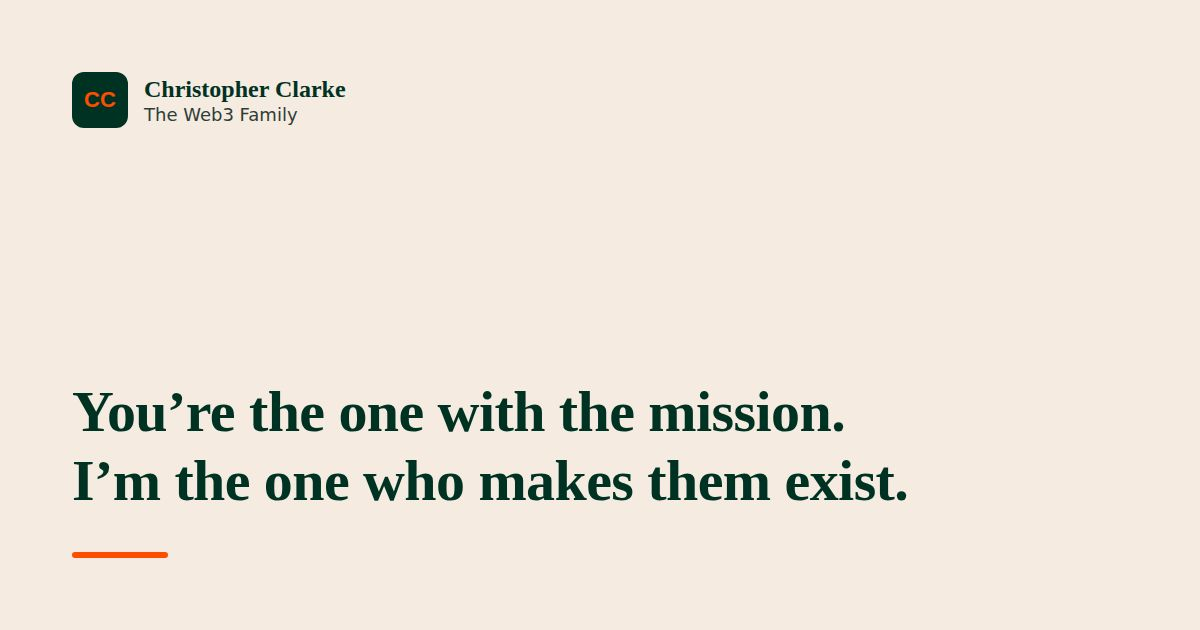
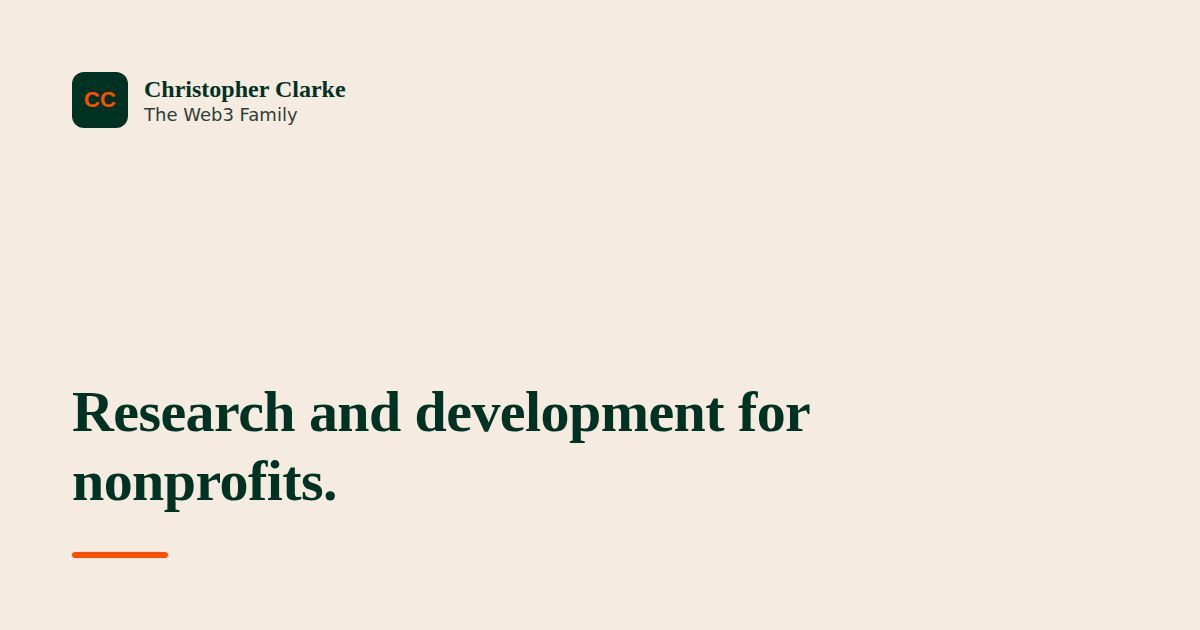
Connect newsletter to Buttondown via a serverless function; address Vercel comments
Newsletter (build instruction: "Buttondown signup through a Vercel
serverless function"):
- api/subscribe.js validates the email, checks a honeypot field, calls
  Buttondown's API with BUTTONDOWN_API_KEY (Vercel environment
  variable, never in this repo), and redirects to /subscribed/ or
  /subscribe-error/. The browser still receives zero JavaScript.
- Form action changed from the old direct-to-Buttondown URL to
  /api/subscribe; added the hidden honeypot field and its .hp CSS.
- New noindex, sitemap-excluded pages: /subscribed/ and
  /subscribe-error/.
- vercel.json sends Cache-Control: no-store on /api/subscribe.

Five Vercel toolbar comments addressed:
- Button text sitewide: "Book a call with me" -> "Schedule a call with
  me" (cta.njk, header nav, case-studies index CTA).
- Homepage subhead: "I just make sure that every Friday you see the
  mission moving forward." -> "Every Friday, an email of what's been
  done, in your team's inbox."
- Homepage headline replaced: the two-line "You're the one with the
  mission..." becomes "Research and development for nonprofits." Also
  re-rendered og-share.jpg, which quotes the headline.
- "Try it out today." prefixed onto every reassurance-style line: the
  hero's .reassure and the case-study CTA's .risk-reversal.
- Client cards moved to the very top of the page body, above the
  problem section too (previously moved to right after the problem
  last round); this specific comment predated that reorder but stayed
[…]

Changed region(s): [[0.0617, 0.6032, 0.7708, 0.8143]]

diff --git a/api/subscribe.js b/api/subscribe.js
@@ -1,0 +1,40 @@
+export default async function handler(req, res) {
+  if (req.method !== "POST") {
+    res.status(405).send("Use the signup form on the site.");
+    return;
+  }
+
+  const email = (req.body && req.body.email ? String(req.body.email) : "").trim();
+  const honeypot = req.body && req.body.company ? String(req.body.company) : "";
+
+  // Bots fill the hidden field; send them to the thank-you page quietly.
+  if (honeypot) {
+    res.redirect(303, "/subscribed/");
+    return;
+  }
+
+  if (!/^[^\s@]+@[^\s@]+\.[^\s@]+$/.test(email)) {
+    res.redirect(303, "/subscribe-error/");
+    return;
+  }
+
+  try {
+    const response = await fetch("https://api.buttondown.com/v1/subscribers", {
+      method: "POST",
+      headers: {
+        Authorization: `Token ${process.env.BUTTONDOWN_API_KEY}`,
+        "Content-Type": "application/json",
+      },
+      body: JSON.stringify({ email_address: email }),
+    });
+
+    // 201 = created. 400 with an "already subscribed" style message also counts as a friendly outcome.
+    if (response.ok || response.status === 400 || response.status === 409) {
+      res.redirect(303, "/subscribed/");
+      return;
+    }
+    res.redirect(303, "/subscribe-error/");
+  } catch (err) {
+    res.redirect(303, "/subscribe-error/");
+  }
+}

diff --git a/src/styles.css b/src/styles.css
@@ -265,9 +265,14 @@ footer p:last-child{margin-bottom:0}
   min-height:56px;padding:12px 28px;font:inherit;font-size:18px;font-weight:700;
   background:var(--cream);color:var(--forest);border:2px solid var(--forest);border-radius:3px;
   cursor:pointer;flex:0 0 auto;
+  display:inline-flex;align-items:center;justify-content:center;text-decoration:none;
 }
 .newsletter-btn:hover{background:var(--cream-deep)}
 .newsletter-privacy{margin-top:var(--space-4)}
+/* honeypot: visually and positionally hidden from real visitors, who
+   never see or fill this field; a bot that fills every field does,
+   and gets quietly redirected instead of erroring (api/subscribe.js) */
+.hp{position:absolute;left:-9999px;height:0;overflow:hidden}
 
 .footer-name{font-family:'Lora',serif;font-weight:700;font-size:22px;color:var(--cream)}
 .footer-line{font-size:18px;color:#cbbfb3}

diff --git a/CLAUDE.md b/CLAUDE.md
@@ -96,20 +96,20 @@ The order is the argument. Do not reorder blocks without asking.
 
 1. Header. Logo, plus a nav, added on Christopher's direct request (previously logo-only, "nothing to click but the phone number and the one call to action"; that blanket rule is retired, but adding new items to the menu or new nav elsewhere still needs a separate explicit conversation first, same as any other structural change). No social links. The logo links to `/` (a no-op there, a way home from every other page); on subpages (case studies, articles) the header logo and the breadcrumb's first crumb both link to `/`. The nav holds four links, Christopher's own list: case studies, articles, contact, and book a meeting (the popup), the last one styled as a real button (`.nav-cta`) rather than a plain link, on direct request. Below 760px it's a `<details>`/`<summary>` hamburger disclosure, the same zero-JS pattern the case study pages used for their weekly log; at 760px and up it's a second, plain `<nav class="nav-inline">` carrying the same four links, always visible, no toggle, added on direct request ("can we have a better menu on desktop?"). Both markups exist in `base.njk` at once, one hidden by CSS depending on viewport width, rather than trying to force the closed `<details>`'s content to stay visible above the breakpoint: that was tried first and silently broke, since Chromium keeps an internal collapsed-layout state for a closed `<details>` regardless of a CSS `display` override, and the nav rendered at zero width and overflowed off-screen. Neither nav adds client-side JavaScript.
 2. Portrait, name, and city. Before any claim. For this reader a real photo of a real person is the largest trust signal on the page.
-3. Hero. A two-line headline, one line naming who he works with and what happens every Friday, the booking button as the one dominant action, the phone number beside it as a small secondary link, and a one-line cadence/cancellation note. The price and the hours-per-week figure used to sit in the hero too; both were removed from here on direct request (a September 2026 build instruction) since naming the hours invites the reader to price the time instead of the result, and the price now appears lower on the page (see item 8 below).
-4. The problem, in his words. He will not believe you can help until he believes you understand. Only three short lines, on purpose: just enough to land the "that is me" recognition before the client cards right after it.
-5. Clients like you. Three real, named clients, linking to their own page under `/case-studies/`. See section 8. Headed "Clients like you" on the homepage specifically (through "The work so far" then a plain "Clients" on the way there, each a direct request); the case-studies index page at `/case-studies/` keeps "The work so far" as its own heading, unchanged. No separate intro line under the heading anymore ("People like you." was added then removed in the same round, on direct request, once the heading itself absorbed the sentiment). **Moved up from after "What Christopher does" to right after the problem**, on a September 2026 build instruction ("Homepage order and iPhone"): the instruction's own analytics showed 49% average scroll depth and only 4 of 52 visitors reaching the case studies in their old position, so they moved ahead of "what I do" instead, on the reasoning that the card headlines carry their own explanation and social proof works best within the first scroll depth, right after the "that is me" recognition the problem section creates. The sections keep their own classes as moved (the problem section and this one are now two `.band`-styled sections back to back, losing the plain-cream break that used to separate the old "what I do" section from the cards below it); that's a byproduct of the reorder, not fixed, since rebalancing the band/plain rhythm sitewide wasn't asked for.
+3. Hero. A one-line headline, one line naming who he works with and what happens every Friday, the booking button as the one dominant action, the phone number beside it as a small secondary link, and a one-line cadence/cancellation note. The price and the hours-per-week figure used to sit in the hero too; both were removed from here on direct request (a September 2026 build instruction) since naming the hours invites the reader to price the time instead of the result, and the price now appears lower on the page (see item 8 below). The subhead changed on direct request, via a Vercel toolbar comment, from "I just make sure that every Friday you see the mission moving forward." to "Every Friday, an email of what's been done, in your team's inbox." The cadence/cancellation note picked up a new opening sentence the same way, via a separate toolbar comment asking to add "Try it out today" to every reassurance-style line sitewide: it now reads "Try it out today. Month to month, Cancel anytime." The case-study pages' `.risk-reversal` line (section 10) got the same treatment, prefixed the same way.
+4. Clients like you. Three real, named clients, linking to their own page under `/case-studies/`. See section 8. Headed "Clients like you" on the homepage specifically (through "The work so far" then a plain "Clients" on the way there, each a direct request); the case-studies index page at `/case-studies/` keeps "The work so far" as its own heading, unchanged. No separate intro line under the heading anymore ("People like you." was added then removed in the same round, on direct request, once the heading itself absorbed the sentiment). **Now the first thing after the hero**, right above the problem section. This moved twice in two rounds: a September 2026 build instruction ("Homepage order and iPhone") first moved it from after "What Christopher does" to right after the problem, citing its own analytics (49% average scroll depth, only 4 of 52 visitors reaching the case studies in their old position) and the reasoning that the problem section's "that is me" recognition should land right before the cards, not above them. A Vercel toolbar comment on this same heading, predating that build instruction by timestamp but left unresolved through it, asked to "hoist this up above the 'your problem' section"; confirmed directly that the cards should go all the way to the top, above the problem too, superseding the build instruction's placement. The sections keep their own classes as moved (the problem section and this one are both `.band`-styled, so they sit back to back now, losing the plain-cream break that used to separate the old "what I do" section from the cards below it); that's a byproduct of the reorder, not fixed, since rebalancing the band/plain rhythm sitewide wasn't asked for.
+5. The problem, in his words. He will not believe you can help until he believes you understand. Only three short lines, on purpose.
 6. What Christopher does. In his own voice, not a bulleted list. Four bold lead-ins now, not three: "I listen to you talk," "I work behind the scenes," "I deliver the work every Friday," and "Your organization keeps everything" (a history of emails and a dedicated Google Drive). That fourth one used to be its own standalone section, first "What changes" then "What is delivered"; a September 2026 build instruction ("Spacing, SEO, and measurement") had it merged into this section instead, since a one-sentence section carrying its own heading, rule, and full section padding was itself a chunk of the large vertical voids that same instruction was fixing. `.steps`/`.step-num` (the old numbered "How it works" this section replaced a round earlier) were fully removed from `src/styles.css`, not just left unused, since nothing else on the site used them.
 7. Have Questions? The FAQ, which handles his last objections. Heading changed from "Straight answers" on direct request.
 8. The price, plainly. Still stated in full, never hidden or vague, just positioned later than before: after the case studies and FAQ have made the case, right before the final booking action, instead of near the top. Moved down from its original position higher on the page (right after "What Christopher does") on direct request, so the reader has the value in hand before the number arrives. Its supporting copy was also rewritten on direct request, from a two-paragraph explanation of the cadence and what's covered, to one line naming what's actually delivered: "For your own dedicated slot on my calendar, the Friday emails, and your own personal Google Drive with everything built so far." (adapted from the requested "with all that we've built," per the first-person-singular rule).
 9. Last action. Booking widget and phone number.
 10. Footer. A newsletter signup (see below) sits above everything else in the footer, added on a September 2026 build instruction ("Buttondown email signup"). Below that: name, business name, city, phone, and email, plus a "Clients" line linking out to the three case-study clients' own live sites (loveaid.foundation, askgpop.online, rapfrogs.online), added on direct request via a Vercel toolbar comment ("Them 3 links into the footer too"), and a "Privacy" link to `/privacy/`, added alongside Google Analytics (see section 9). No social icons, and no other links beyond those.
 
-**Newsletter signup.** One instance, in the footer, on every page, per that same build instruction. Deliberately not on the homepage body: the homepage's one job is booking calls, and a second, smaller ask would compete with the orange CTA and pull people toward the easier action. A plain HTML form (`method="post"`, `target="_blank"`) posts straight to Buttondown, so it needs no JavaScript; the visible `<label for="bd-email">` matters for the same reason the contact form has one, since a placeholder alone disappears the moment someone starts typing. Styled with the same cream-fill, forest-border field convention as `.contact-form input` (see section 9), not the instruction's slightly different palette or radius, for the same "reuse existing patterns" reason as the brand-token note in section 6. The button is cream with a forest border and forest text, never orange: orange stays reserved for the booking CTA alone, so a second orange button in the footer wouldn't read as a second "the" action. The instruction's given blurb (16px) and label (14px) sizes were both below the site's 18px accessibility floor (section 7); both ship at 18px instead, matching `.footer-line`. **The form's `action` still reads `YOURUSERNAME`**: that has to come from Christopher's own Buttondown account, nobody else can create it, same as the Splitform and GoatCounter placeholders in section 8. Unlike those two, this one is visually live in the footer right now rather than commented out, since the instruction wanted the whole layout shipped immediately; don't invent a real username to fill it in, and don't treat the placeholder as done until it's swapped for the real one. Once a future `/guides/` collection exists, a second instance is planned at the end of each guide, per the same instruction; that's not built yet, since no guide exists to attach it to.
+**Newsletter signup.** One instance, in the footer, on every page, per that same build instruction. Deliberately not on the homepage body: the homepage's one job is booking calls, and a second, smaller ask would compete with the orange CTA and pull people toward the easier action. A plain HTML form (`method="post"`) posts to `/api/subscribe`, a Vercel serverless function, so the browser still runs no JavaScript; the visible `<label for="bd-email">` matters for the same reason the contact form has one, since a placeholder alone disappears the moment someone starts typing. Styled with the same cream-fill, forest-border field convention as `.contact-form input` (see section 9), not the instruction's slightly different palette or radius, for the same "reuse existing patterns" reason as the brand-token note in section 6. The button is cream with a forest border and forest text, never orange: orange stays reserved for the booking CTA alone, so a second orange button in the footer wouldn't read as a second "the" action. The instruction's given blurb (16px) and label (14px) sizes were both below the site's 18px accessibility floor (section 7); both ship at 18px instead, matching `.footer-line`. **The form originally posted straight to Buttondown with a `YOURUSERNAME` placeholder in the URL**; a follow-up build instruction ("Buttondown signup through a Vercel serverless function") replaced that with the `/api/subscribe` function described in section 9, specifically so the real Buttondown API key stays server-side instead of ever appearing in front-end markup. A hidden honeypot field (`name="company"`) rides along in the same form to filter bots; see section 9 for how it's hidden and what happens when it's filled. Once a future `/guides/` collection exists, a second instance is planned at the end of each guide, per the original instruction; that's not built yet, since no guide exists to attach it to.
 
-**Locked copy.** Do not change the headline, the price block, the button text, or the footer without an explicit request from Christopher.
+**Locked copy.** Do not change the headline, the price block, the button text, or the footer without an explicit request from Christopher. **The headline changed on a direct request** via a Vercel toolbar comment on the old H1, from the two-line "You're the one with the mission. I'm the one who makes them exist." to a single line, "Research and development for nonprofits." The old line doesn't come back without a fresh, explicit request; `og-share.jpg` (section 9) was re-rendered to match, since it quotes the homepage headline verbatim.
 
-**Naming consistency.** The offer is **a 15 minute call**, still the name for the Calendly event itself and in conversation, even though the on-page button text has since changed (see below). The earlier "free briefing" name, and "Digital Intelligence Briefing" before that, are both retired and do not come back. Every booking button on the site reads "Book a call with me," changed from "Book a free strategy call" (itself changed from "Book my meeting with you.," itself changed from the original "Book my 15 minute call") on Christopher's direct request via a Vercel toolbar comment on the header nav CTA; it's pulled from one shared template (`src/_includes/cta.njk`) so it only needs to change in one place, plus the header nav CTA and the case-studies index page's own hand-written CTA, which don't route through that macro. The phone number, being a secondary link rather than a button, stays third person: "or call/text (310) 703-6003." The shared macro shows that line under the button by default; the homepage's final booking section passes `showPhone=false` to omit it there specifically, on direct request, since the number already appears earlier on that same page. An "or email me directly" mailto line, added on a September 2026 build instruction, sits under every button too, and unlike the phone line it always shows regardless of `showPhone`: the email address isn't shown anywhere earlier on the homepage by the time the reader reaches that section, so there's no redundancy to avoid there the way there is with the phone number.
+**Naming consistency.** The offer is **a 15 minute call**, still the name for the Calendly event itself and in conversation, even though the on-page button text has since changed (see below). The earlier "free briefing" name, and "Digital Intelligence Briefing" before that, are both retired and do not come back. Every booking button on the site reads "Schedule a call with me," changed from "Book a call with me" (itself changed from "Book a free strategy call," itself changed from "Book my meeting with you.," itself changed from the original "Book my 15 minute call") on Christopher's direct request via a Vercel toolbar comment on the hero CTA; it's pulled from one shared template (`src/_includes/cta.njk`) so it only needs to change in one place, plus the header nav CTA and the case-studies index page's own hand-written CTA, which don't route through that macro. The phone number, being a secondary link rather than a button, stays third person: "or call/text (310) 703-6003." The shared macro shows that line under the button by default; the homepage's final booking section passes `showPhone=false` to omit it there specifically, on direct request, since the number already appears earlier on that same page. An "or email me directly" mailto line, added on a September 2026 build instruction, sits under every button too, and unlike the phone line it always shows regardless of `showPhone`: the email address isn't shown anywhere earlier on the homepage by the time the reader reaches that section, so there's no redundancy to avoid there the way there is with the phone number.
 
 ---
 
@@ -183,7 +183,7 @@ This replaced an earlier anonymous, single-page version at `/proof/` (three card
 
 **No About page exists.** The same build instruction asked for one to open with a specific entity-disambiguating sentence, but building a whole new page (its full content beyond that one sentence, whether it joins the nav, where it links from) is a bigger, more speculative call than a single copy edit, so it wasn't built. Don't create one without Christopher confirming he wants it and what else besides that opening sentence should be on it.
 
-**The footer's newsletter signup form is scaffolded but not functional**, live in the footer on every page (see section 5) but posting to `https://buttondown.com/api/emails/embed-subscribe/YOURUSERNAME`. The real username has to come from Christopher's own free Buttondown account, which nobody else can create for him. Don't invent one to fill this in. Once he supplies the real one, swap it into the `action` attribute in `base.njk`; nothing else about the form needs to change.
+**The footer's newsletter signup form is code-complete but still needs one real secret added outside this repo.** It posts to `/api/subscribe` (`api/subscribe.js`, see section 9), which reads the real Buttondown API key from the `BUTTONDOWN_API_KEY` Vercel environment variable rather than from anything in `src/`. Nobody but Christopher can create that key (Buttondown, Settings, API) or add it to the Vercel dashboard (Project Settings → Environment Variables, applied to Production and Preview, then redeploy); don't invent one. Until that variable exists in Vercel, every real submission will fail over to `/subscribe-error/` even though the code itself is finished and correct. Test with a real email after it's added, per Christopher's own checklist in the build instruction that added this function.
 
 ---
 
@@ -192,13 +192,14 @@ This replaced an earlier anonymous, single-page version at `/proof/` (three card
 - **Built with Eleventy**, deliberately, so a design-system-wide change (a color, a spacing value, the type scale) is one edit instead of one edit per page. That was the entire reason this site moved off a single static file: it started growing past one page. Do not reach for anything heavier (Astro, Next.js, a component framework) without asking. This project already tried Astro twice before landing here.
 - `src/_includes/base.njk` is the shared layout: the `<head>`, the header, and the footer. Every page uses it. Do not duplicate the header or footer markup into a page file.
 - `src/styles.css` is the one stylesheet every page links. A style that only one page needs still belongs in this file, scoped with a class; do not add a second stylesheet or inline a `<style>` block into a page.
-- Ships zero client-side JavaScript beyond the booking embed, Microsoft Clarity, and Google Analytics (analytics). No animation libraries, sliders, or other analytics tools beyond those two. Eleventy's job is finished at build time; nothing it does should add a runtime script beyond those three. The homepage's old inline Calendly iframe is gone (removed on direct request); every "Book a call with me" button on the site, the homepage included, now opens Calendly's official popup widget instead (their `widget.css`/`widget.js`, plus an `onclick="Calendly.initPopupWidget(...)"` on the CTA link, with a plain link to the Calendly page as the href fallback if JavaScript is off). That's still the same one third-party booking product, not a second dependency. The popup assets load in `<head>` on every page now, not gated behind a front-matter flag, since the footer's own booking button needs them everywhere the footer appears. The header's nav (hamburger below 760px, plain inline nav above it, see section 5) is CSS-only, so it adds no JavaScript either. The contact page's stand-in form (section 8) submits via a plain `mailto:` action, also no JavaScript. The footer's newsletter signup form (section 5) is the same story: a plain HTML `method="post"` to Buttondown, no JavaScript, `target="_blank"` so the confirmation page opens in a new tab instead of navigating away from whatever page the visitor was reading.
+- Ships zero client-side JavaScript beyond the booking embed, Microsoft Clarity, and Google Analytics (analytics). No animation libraries, sliders, or other analytics tools beyond those two. Eleventy's job is finished at build time; nothing it does should add a runtime script beyond those three. The homepage's old inline Calendly iframe is gone (removed on direct request); every "Schedule a call with me" button on the site, the homepage included, now opens Calendly's official popup widget instead (their `widget.css`/`widget.js`, plus an `onclick="Calendly.initPopupWidget(...)"` on the CTA link, with a plain link to the Calendly page as the href fallback if JavaScript is off). That's still the same one third-party booking product, not a second dependency. The popup assets load in `<head>` on every page now, not gated behind a front-matter flag, since the footer's own booking button needs them everywhere the footer appears. The header's nav (hamburger below 760px, plain inline nav above it, see section 5) is CSS-only, so it adds no JavaScript either. The contact page's stand-in form (section 8) submits via a plain `mailto:` action, also no JavaScript. The footer's newsletter signup form (section 5) is the same story from the browser's side: a plain HTML `method="post"`, no JavaScript. It posts to `/api/subscribe`, a Vercel serverless function (see below) rather than straight to Buttondown, so the real API key never has to live in a front-end file; the function itself runs server-side, which the zero-JS rule has never governed, since that rule is about what ships to the visitor's browser.
 - Microsoft Clarity and Google Analytics (`gtag.js`, measurement ID `G-X7WWKF2SFX`) are both loaded on every page, by explicit request, even though each sets its own cookies (Clarity for session replay and heatmaps, GA4 for aggregate visit stats). That's a deliberate exception to the site's general no-cookies posture, made knowingly. Rather than a consent banner, the site links to a short `/privacy/` page (`src/privacy.njk`) from the footer, describing what each tool collects and why. The banner-vs-privacy-page call was made after weighing CCPA/GDPR exposure for a solo operator with primarily LA-based nonprofit clients (low risk at this scale, though Google's own EU User Consent Policy is technically a contractual condition of using their tag regardless of site size). Don't add a banner speculatively, and don't treat this as license to add other tracking without the same explicit ask; if a future tracker is added, revisit whether the privacy-page approach still holds.
 - Beyond Clarity's and Google Analytics' cookies, no localStorage, sessionStorage, or other cookies.
-- External dependencies are Google Fonts, the booking embed, Microsoft Clarity, and Google Analytics. That is the whole list of things a visitor's browser talks to. `@11ty/eleventy` is a dev-time dependency only; it never ships to the browser. Splitform, GoatCounter, and Buttondown will each become a dependency once their real credentials are wired in (see section 8 and, for the newsletter form, section 5); none is live yet.
+- External dependencies are Google Fonts, the booking embed, Microsoft Clarity, and Google Analytics. That is the whole list of things a visitor's browser talks to. `@11ty/eleventy` is a dev-time dependency only; it never ships to the browser. Buttondown is now wired in server-side via `api/subscribe.js` (see below), pending only the real `BUTTONDOWN_API_KEY` in Vercel's dashboard (see section 8); the visitor's browser itself never talks to Buttondown directly. Splitform and GoatCounter will each become a dependency once their real credentials are wired in (see section 8); neither is live yet.
 - **Organization, Person, and BreadcrumbList JSON-LD**, added on a September 2026 build instruction. The Organization and Person blocks live in `base.njk`'s `<head>`, gated to the homepage only (`{% if page.url == "/" %}`); each case study page carries its own BreadcrumbList block near its breadcrumb, with the client's name in position 3. These are `<script type="application/ld+json">` blocks: inert structured data parsed by crawlers, not executable script, so they don't touch the zero-JS rule despite the `<script>` tag. The Organization block also carries `image` (the same real portrait, `christopher.jpg`) and `priceRange` (`"$500 - $3,000"`), added on a pasted schema snippet from a September 2026 session. That snippet's `telephone` was wrong (`+1-310-800-5000`, not the real `703-6003` used everywhere else on the site) and wasn't used; Christopher confirmed the real number stays. **The `priceRange` is a known mismatch with the visible page right now**: section 1 and the price section (section 5, item 8) still describe one flat $3,000/month rate, no range. Christopher confirmed the range itself is real and the schema update is intentional, but the on-page copy hasn't caught up yet. Don't "fix" this by reverting `priceRange` or by rewriting the visible price copy to match on your own; both need a fresh, explicit request when he's ready to update the page itself.
 - **Sitemap, robots.txt, canonical, and OpenGraph**, added on a September 2026 build instruction ("Sitemap, meta tags, card links, touch targets"). `src/sitemap.njk` renders at `/sitemap.xml` from `collections.all`; `src/robots.txt` (passthrough-copied) points at it. Every page's `<head>` in `base.njk` carries a canonical link and OG/Twitter-card tags built from that page's own `title` and `description` front matter, which every page already had. `og:image` points at `src/og-share.jpg`, a static 1200x630 JPEG checked into the repo (passthrough-copied, not generated at build time): a typographic card built from the homepage headline, the header's own "CC" wordmark, and an orange rule, styled with the site's real fonts and colors, rendered with a one-off headless-browser screenshot rather than photography or AI image generation, consistent with the no-stock-photography rule in section 3. If the headline or wordmark ever changes, re-render this file the same way rather than hand-editing a JPEG.
-- Build: `npm run build` outputs static files to `_site/`. `npm run dev` serves it locally with live reload. There is no other build step and no server at runtime; Vercel serves what Eleventy generates, nothing more.
+- Build: `npm run build` outputs static files to `_site/`. `npm run dev` serves it locally with live reload. There is no other build step; Vercel serves what Eleventy generates, plus the one serverless function described below. Until the newsletter signup, this was also true at runtime ("no server, nothing but static files"); `api/subscribe.js` is the one exception, added on direct request specifically to keep a real API key out of the repo and out of every front-end file. Don't reach for a second one without asking; the site's default is still static-first.
+- **The newsletter signup posts to a Vercel serverless function**, `api/subscribe.js` at the repo root (Vercel serves `api/` automatically alongside the Eleventy output in `_site/`), added on a September 2026 build instruction ("Buttondown signup through a Vercel serverless function") that replaced the newsletter form's original direct-to-Buttondown `action` (see section 5). The browser still receives zero JavaScript: the form is a plain HTML POST, and the function is server-side Node that validates the email with a regex, calls Buttondown's API (`POST https://api.buttondown.com/v1/subscribers`, field name `email_address`, bearer-style `Authorization: Token <key>` header) with the real API key read from the `BUTTONDOWN_API_KEY` environment variable, and redirects (303) to `/subscribed/` or `/subscribe-error/`. The field name wasn't verified live against Buttondown's docs (`docs.buttondown.com` isn't reachable from this environment's network policy); it matches the build instruction's own code and this assistant's best knowledge of the API, but treat Christopher's own test signup, per his checklist in that build instruction, as the real verification, not this note. A hidden `company` field is a honeypot (`.hp` in `src/styles.css`: positioned off-screen, zero height, `tabindex="-1"`, so a real visitor never sees or tabs into it); a bot that fills every field gets quietly redirected to `/subscribed/` instead of an error, so it doesn't learn to retry. `BUTTONDOWN_API_KEY` lives only in the Vercel dashboard (Project Settings → Environment Variables, applied to Production and Preview); it is never in this repo. The Buttondown username is `theweb3family`, used for reference, not in the subscribe flow itself (the API key authenticates the account, not a URL path). `/subscribed/` and `/subscribe-error/` (`src/subscribed.njk`, `src/subscribe-error.njk`) both carry `noindex` via a `noindex: true` front-matter flag (`{% if noindex %}<meta name="robots" content="noindex">{% endif %}` in `base.njk`) and `eleventyExcludeFromCollections: true`, so neither appears in `/sitemap.xml`. `vercel.json` sends `Cache-Control: no-store` on `/api/subscribe` so browsers never cache the function response.
 
 ---
 
@@ -209,7 +210,7 @@ This replaced an earlier anonymous, single-page version at `/proof/` (three card
 - Explain what changed and why in plain language. Christopher reviews on a phone.
 - When adding a section to a page, match the existing rhythm: a `<section>` with a top border, a `.wrap` container, an `h2`, and either `.split` prose or a `.cards` grid.
 - **Adding a new page:** create a file under `src/` with `layout: base.njk` in its front matter, a `title`, and a `description`. The header (including the hamburger menu), and footer come along automatically from `base.njk`. Write its sections using the same rhythm as `src/index.njk`. Do not add the new page into the hamburger menu, or any navigation link for it elsewhere, without an explicit conversation first: the menu's four links (case studies, articles, contact, book a meeting) were Christopher's own explicit list, not a general "add every page" rule.
-- **Adding an article:** copy `article-template.md` (repo root) into `src/articles/`, fill in the front matter, write the body in Markdown, done. It appears on `/articles/` and gets its own page automatically, no template edits needed. Every article carries the same header, footer, and a "Book a call with me" button at the end, via the shared `cta.njk` macro. `src/_includes/article.njk` used to have its own hand-written CTA that still read "Book my 15 minute call," missed during the earlier button-text rounds since no article had been published yet to surface it; fixed to route through `{% from "cta.njk" import button %}` like every other page, so a future button-text change only needs the one macro edit it was always supposed to need.
+- **Adding an article:** copy `article-template.md` (repo root) into `src/articles/`, fill in the front matter, write the body in Markdown, done. It appears on `/articles/` and gets its own page automatically, no template edits needed. Every article carries the same header, footer, and a "Schedule a call with me" button at the end, via the shared `cta.njk` macro. `src/_includes/article.njk` used to have its own hand-written CTA that still read "Book my 15 minute call," missed during the earlier button-text rounds since no article had been published yet to surface it; fixed to route through `{% from "cta.njk" import button %}` like every other page, so a future button-text change only needs the one macro edit it was always supposed to need.
 - **`/articles/` is now reachable from the hamburger menu** on every page, added along with the rest of the menu on Christopher's direct request. It previously had no link pointing at it anywhere, on purpose; that's no longer the case.
 - **The homepage FAQ was rewritten on a September 2026 build instruction**: all four questions and answers changed, and the section heading became "Have Questions?" (from "Straight answers"). Two of the requested answers used "we" ("You own everything we create," "You still keep everything we created"); both were adapted at the time to hold the first-person-singular rule in section 4, shipping as "You own everything I make," "You still keep everything," since Christopher speaks as one person on this site. Christopher later flagged that rule as unhelpful via a Vercel toolbar comment, so the "Web3" FAQ answer's line now reads "You own everything we make" again, on his direct request; the "You still keep everything" line hasn't had a fresh request to match, so it stays as is. See section 4 for the updated, non-absolute version of the rule.
 - **Case studies** live at `src/case-studies/`: `index.njk` (three short cards linking out, page heading "The work so far") plus one full page per client (`love-aid-foundation.njk`, `ask-g-pop.njk`, `rap-frogs.njk`), not a collection like articles. Each full page: a breadcrumb (`Home → Case studies → [org]`), an `.eyebrow-person` (the person's name on one line, the organization on the next, differentiated by size, weight, and style rather than joined with a middle dot; see below), the serif headline, a `.case-facts` strip (client type only, see below), and a two-column `.split.split-swapped`: "Here is what landed" on the wide left side, "Sound familiar?" questions on the narrow right side. Immediately after the split (full width, spanning both columns): the page's one CTA, then, when a real quote exists, the client's quotes with a `<cite>` attribution line under each, then a "what this proves" block, a weekly delivery log shown as a horizontal timeline (see below), a short first-person note from Christopher next to the reused homepage portrait, a "Want to see more case studies?" heading, and the closing list of links to the other case studies. The homepage's own "Clients like you" section links to each page by name, and reuses `.eyebrow-person`, using the same card content and structure as the case-studies index cards: the two briefly diverged (the homepage got new one-line headlines and a plain-text domain first, while the index page kept its old numeric stat and outcome-style copy) and were then brought back into parity on a direct follow-up request ("needs to match what we'll be putting on the homepage"). Both pages' cards now share:
@@ -222,7 +223,7 @@ This replaced an earlier anonymous, single-page version at `/proof/` (three card
   - **No visible client start dates anywhere on the site**, removed on a September 2026 build instruction: the old "Client since [Month Year]" fact-strip column (with its "N months and running" sub-line), and the "Client since [date]" line on the case-studies index cards and the homepage teaser cards, are all gone. `.case-facts` now holds one column, client type, on all three detail pages. The week count still lives inside the weekly log timeline's own circled numbers (see below); that's momentum, not a start date, and it stays. Don't reintroduce a start date anywhere without a fresh, explicit request; the `.case-fact-sub` class this used was removed from `src/styles.css`, not just left unused.
   - **The two-column split runs "Here is what landed" on the left (wide) and "Sound familiar?" on the right (narrow)** on all three pages, per Christopher's direct feedback: `.split.split-swapped` reverses which DOM child gets the 1.5fr/1fr width so the checklist keeps the wider column even though it's now first. Elsewhere on the site (homepage sections, articles) the label/eyebrow column stays narrow-left, body-wide-right as before; the swap is scoped to case studies only via that modifier class, not a global change.
   - **One CTA per page, not three.** These pages went from three CTAs down to one, across two rounds of direct feedback: first the CTA between "What this proves" and the weekly log was cut, then the closing CTA near the bottom was cut too. What's left sits right after the two-column split, spanning full width ("footer-wide," Christopher's own word for it) rather than nested inside the narrow "Sound familiar?" column, where it briefly lived. Don't add a CTA elsewhere on these pages without a fresh, explicit request; the trend across this feedback was fewer, not more.
-  - **The CTA carries three lines**: the "Book a call with me" button, `or call/text (310) 703-6003` underneath it (third person, per the phone-number convention above), and the risk-reversal line `Month to month. Everything built is yours.` (a shortened version Christopher preferred over the original "Month to month. One email ends it. Everything built stays yours.", after seeing both live; the price section's own paragraph on the homepage is untouched). Built from the shared `src/_includes/cta.njk` macro (`{{ button("content-cta", true) }}`), which also supplies `.call-alt` and, via the `riskReversal` argument, `.risk-reversal`.
+  - **The CTA carries three lines**: the "Schedule a call with me" button, `or call/text (310) 703-6003` underneath it (third person, per the phone-number convention above), and the risk-reversal line `Try it out today. Month to month. Everything built is yours.` (the `Month to month. Everything built is yours.` part is a shortened version Christopher preferred over the original "Month to month. One email ends it. Everything built stays yours.", after seeing both live; `Try it out today.` was prefixed on a later direct request, see section 5; the price section's own paragraph on the homepage is untouched). Built from the shared `src/_includes/cta.njk` macro (`{{ button("content-cta", true) }}`), which also supplies `.call-alt` and, via the `riskReversal` argument, `.risk-reversal`.
   - **The CTA button opens Calendly's popup widget** instead of linking to the homepage's `/#booking` section, per direct request. Calendly's popup assets now load in `<head>` on every page (see section 9; not gated behind a `calendlyPopup` front matter flag anymore, since the footer's own booking button needs them everywhere the footer appears); the button itself is `<a href="https://calendly.com/aweb3dad/15-minute-greeting" onclick="Calendly.initPopupWidget({url:'...'});return false;">`, so it still goes straight to the real booking page if JavaScript is off. The case-studies index page's own CTA is unchanged (still links to `/#booking`, still a plain link, not the popup); only the three detail pages, the hero, and the last action section got the popup treatment.
   - **`.risk-reversal` is set at 14px, below the site's 18px accessibility floor (section 7), as a deliberate, confirmed exception.** It wrapped to two lines in the narrow "Sound familiar?" column at 18px; a request to shrink it to fit one line was flagged first, since it would break the floor, and Christopher confirmed explicitly: "it's meant to be disclaimer text anyway, so lower it." That's the only place on the site allowed below 18px. Don't extend the exception to any other text, and don't quietly raise it back to 18px thinking the small size was a bug.
   - **The weekly log section heading is "Preview of our nonprofit's progress"** (no separate intro paragraph underneath it anymore, and no "Every Friday, one email goes out..." sentence either; both were cut on direct feedback as redundant once the heading itself says what the section is). It's the same heading text on all three pages, matching the site's pattern of reusing generic section language across case studies ("Sound familiar?", "Here is what landed") rather than writing a bespoke heading per client.
@@ -230,7 +231,7 @@ This replaced an earlier anonymous, single-page version at `/proof/` (three card
   - **The connecting line is drawn per item** (`.log-timeline-item:not(:last-child)::after`), circle center to circle center, not as one line spanning the whole row. An earlier version drew a single line across the full track width, which caused two different bugs in turn: first the line stopped partway through the log because the track (a block-level flex container) sized itself to its scroll parent's visible width rather than its own overflowing children; fixing that with `width:max-content` on `.log-timeline` then made the line run the full track width including empty column space trailing the last circle, since nothing follows it to connect to, which read as "the scroll goes too far." Per-item segments sidestep both: each one only draws when there's a next circle to reach.
   - The old "Week 25, and next Friday is already in motion." status line (`.log-status`, `.log-dot`) is gone, cut on direct feedback as no longer needed once the timeline itself shows the week count. Don't bring that class back; it's been removed from `src/styles.css`, not just unused.
   - The closing block reuses `/christopher.jpg` at a smaller size (`.portrait.portrait-sm`) next to one first-person sentence from Christopher ("Hi, I'm Christopher..."), inside `.author-note`, at the very end of the page, right before a "Want to see more case studies?" heading and the cross-links to the other case studies. It no longer sits next to a CTA of its own, since the page's one CTA sits higher up, right after the two-column split. Don't add a different photo or a synthetic person: the portrait already on the homepage is the only trust photo this site uses, per section 3.
-  - No sticky elements anywhere on these pages (no sticky sub-nav, no sticky CTA bar). It fails the "would this look out of place printed and handed to someone?" test in section 3, even though it wouldn't touch the zero-JS rule. The repeated inline "Book a call with me" button is the mechanism instead.
+  - No sticky elements anywhere on these pages (no sticky sub-nav, no sticky CTA bar). It fails the "would this look out of place printed and handed to someone?" test in section 3, even though it wouldn't touch the zero-JS rule. The repeated inline "Schedule a call with me" button is the mechanism instead.
   - No pulsing or otherwise animated status dot. `.log-dot`/`.log-status` stay static, per the no-animation-while-reading rule. The card grid may lift slightly on hover, a plain CSS transition already covered by the sitewide `prefers-reduced-motion` rule rather than gated individually.
   - When a client's quote doesn't exist yet, or was pulled for accuracy, leave the quote block out entirely rather than filling it with a placeholder note or inventing one. Don't attribute a pulled quote to whoever actually said it (e.g. a team member) without Christopher explicitly re-confirming that specific person is covered; a spec document proposing that attribution is not that confirmation.
   - Card images (a client's own logo or character art, or a screenshot of the built work) are planned but not implemented: none of that artwork has been supplied yet. Don't add placeholder art, a generated image, or a synthetic photo of a named client in the meantime; the cards stay text-only until real files exist.
